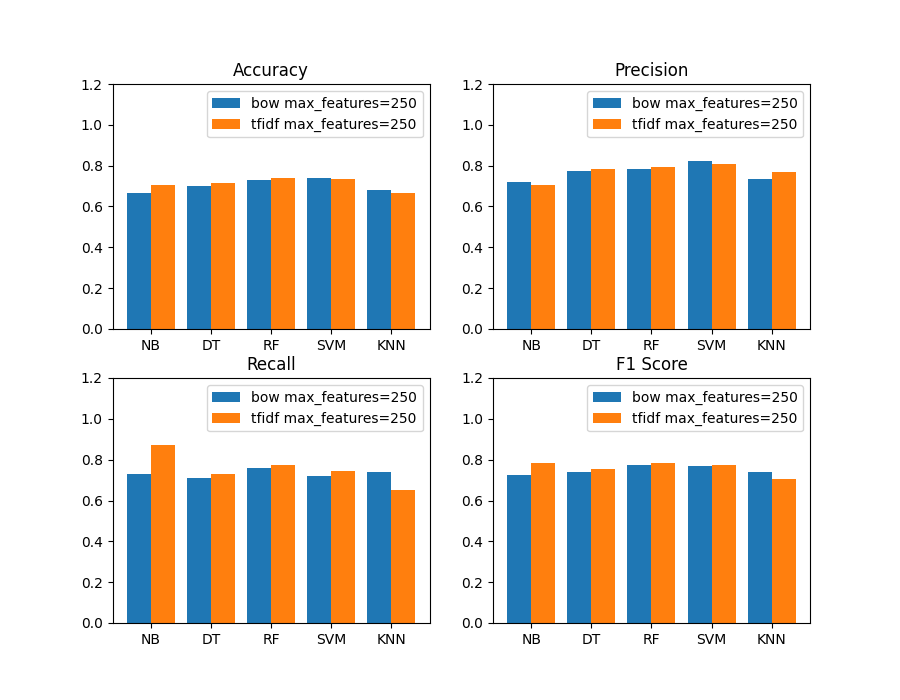
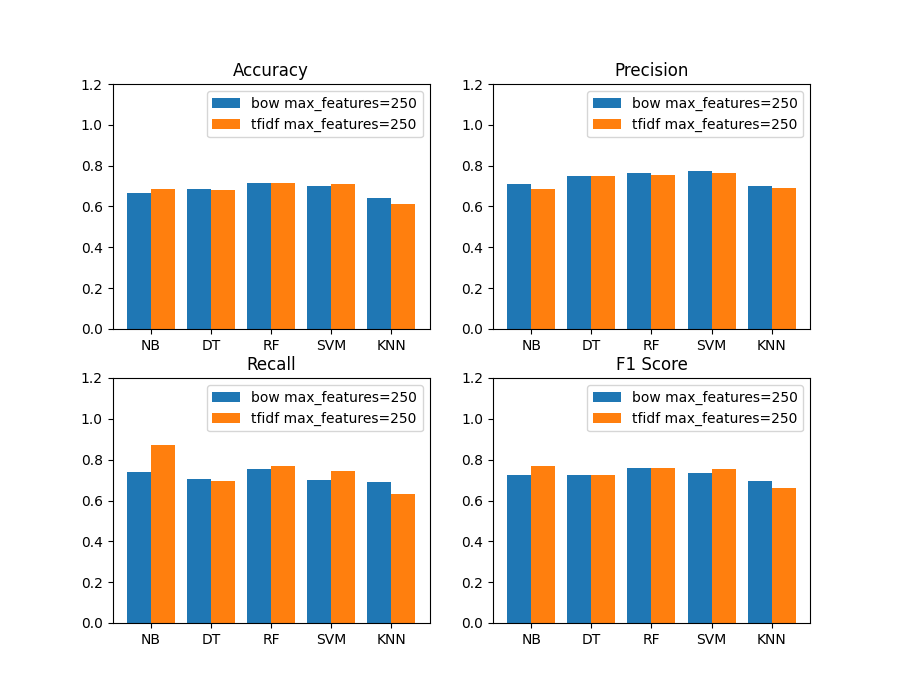
plotting prediction probabilities

diff --git a/code/ml/main.py b/code/ml/main.py
@@ -12,7 +12,7 @@ from sklearn.metrics import classification_report, accuracy_score, f1_score, pre
     mean_squared_error
 from ml.ml_models import execute_nb, execute_dtc, execute_rf, execute_svm, execute_knn
 from ml.plots import bar_plot_multiple_column, save_results_to_csv, parse_optuna_trials, Results, \
-    plot_optuna_metric_histogram
+    plot_optuna_metric_histogram, plot_proba_histogram
 from ml.preprocess_text import preprocess_text, create_tfidf, create_bow, save_df_to_csv
 from ml.hyperparamter_search import Objective
 
@@ -26,7 +26,7 @@ class Metrics:
         self.f1 = []
 
 
-def show_score(y_test, y_pred, metric_list, title="", avg='binary', model_name='', params='', dataset_name='', type='',
+def show_score(y_test, y_pred, proba, metric_list, title="", avg='binary', model_name='', params='', dataset_name='', type='',
                seconds=0):
     results = Results(model_name=model_name, params=params, dataset_name=dataset_name, type=type, average=avg,
                       seconds=seconds)
@@ -49,7 +49,8 @@ def show_score(y_test, y_pred, metric_list, title="", avg='binary', model_name='
         print("precission: ", results.prec)
         print("recall: ", results.recall)
         print("f1_score: ", results.f1)
-        save_results_to_csv(results)
+        plot_proba_histogram(proba, dataset=dataset_name, type=type, model=model_name)
+        # save_results_to_csv(results)
 
 
 def read_dataset(name):
@@ -83,46 +84,52 @@ def single_model_execution():
     models = ['NB', 'DT', 'RF', 'SVM', 'KNN']
     bow_score = Metrics()
     tfidf_score = Metrics()
-    y_pred, params, elapsed = execute_nb(X_train_tfidf, y_train_tfidf, X_test_tfidf)
-    show_score(y_test_tfidf, y_pred, title="NB tfidf", metric_list=tfidf_score, model_name='NB', params=params,
+
+    y_pred, params, elapsed, proba = execute_nb(X_train_tfidf, y_train_tfidf, X_test_tfidf)
+    show_score(y_test_tfidf, y_pred, proba, title="NB tfidf", metric_list=tfidf_score, model_name='NB', params=params,
                dataset_name=file_name, type='tfidf max_features=' + str(max_features), seconds=elapsed,
                avg=metrics_average)
-    y_pred, params, elapsed = execute_nb(X_train_bow, y_train_bow, X_test_bow)
-    show_score(y_test_bow, y_pred, title="NB bow", metric_list=bow_score, model_name='NB', params=params,
+    y_pred, params, elapsed, proba = execute_nb(X_train_bow, y_train_bow, X_test_bow)
+    show_score(y_test_bow, y_pred, proba, title="NB bow", metric_list=bow_score, model_name='NB', params=params,
                dataset_name=file_name, type='bow max_features=' + str(max_features), seconds=elapsed,
                avg=metrics_average)
-    y_pred, params, elapsed = execute_dtc(X_train_tfidf, y_train_tfidf, X_test_tfidf)
-    show_score(y_test_tfidf, y_pred, title="DT tfidf", metric_list=tfidf_score, model_name='DT', params=params,
+
+    y_pred, params, elapsed, proba = execute_dtc(X_train_tfidf, y_train_tfidf, X_test_tfidf)
+    show_score(y_test_tfidf, y_pred, proba, title="DT tfidf", metric_list=tfidf_score, model_name='DT', params=params,
                dataset_name=file_name, type='tfidf max_features=' + str(max_features), seconds=elapsed,
                avg=metrics_average)
-    y_pred, params, elapsed = execute_dtc(X_train_bow, y_train_bow, X_test_bow)
-    show_score(y_test_bow, y_pred, title="DT bow", metric_list=bow_score, model_name='DT', params=params,
+    y_pred, params, elapsed, proba = execute_dtc(X_train_bow, y_train_bow, X_test_bow)
+    show_score(y_test_bow, y_pred, proba, title="DT bow", metric_list=bow_score, model_name='DT', params=params,
                dataset_name=file_name, type='bow max_features=' + str(max_features), seconds=elapsed,
                avg=metrics_average)
-    y_pred, params, elapsed = execute_rf(X_train_tfidf, y_train_tfidf, X_test_tfidf)
-    show_score(y_test_tfidf, y_pred, title="RF tfidf", metric_list=tfidf_score, model_name='RF', params=params,
+
+    y_pred, params, elapsed, proba = execute_rf(X_train_tfidf, y_train_tfidf, X_test_tfidf)
+    show_score(y_test_tfidf, y_pred, proba, title="RF tfidf", metric_list=tfidf_score, model_name='RF', params=params,
                dataset_name=file_name, type='tfidf max_features=' + str(max_features), seconds=elapsed,
                avg=metrics_average)
-    y_pred, params, elapsed = execute_rf(X_train_bow, y_train_bow, X_test_bow)
-    show_score(y_test_bow, y_pred, title="RF bow", metric_list=bow_score, model_name='RF', params=params,
+    y_pred, params, elapsed, proba = execute_rf(X_train_bow, y_train_bow, X_test_bow)
+    show_score(y_test_bow, y_pred, proba, title="RF bow", metric_list=bow_score, model_name='RF', params=params,
                dataset_name=file_name, type='bow max_features=' + str(max_features), seconds=elapsed,
                avg=metrics_average)
-    y_pred, params, elapsed = execute_svm(X_train_tfidf, y_train_tfidf, X_test_tfidf)
-    show_score(y_test_tfidf, y_pred, title="SVM tfidf", metric_list=tfidf_score, model_name='SVM', params=params,
+
+    y_pred, params, elapsed, proba = execute_svm(X_train_tfidf, y_train_tfidf, X_test_tfidf)
+    show_score(y_test_tfidf, y_pred, proba, title="SVM tfidf", metric_list=tfidf_score, model_name='SVM', params=params,
                dataset_name=file_name, type='tfidf max_features=' + str(max_features), seconds=elapsed,
                avg=metrics_average)
-    y_pred, params, elapsed = execute_svm(X_train_bow, y_train_bow, X_test_bow)
-    show_score(y_test_bow, y_pred, title="SVM bow", metric_list=bow_score, model_name='SVM', params=params,
+    y_pred, params, elapsed, proba = execute_svm(X_train_bow, y_train_bow, X_test_bow)
+    show_score(y_test_bow, y_pred, proba, title="SVM bow", metric_list=bow_score, model_name='SVM', params=params,
                dataset_name=file_name, type='bow max_features=' + str(max_features), seconds=elapsed,
                avg=metrics_average)
-    y_pred, params, elapsed = execute_knn(X_train_tfidf, y_train_tfidf, X_test_tfidf)
-    show_score(y_test_tfidf, y_pred, title="KNN tfidf", metric_list=tfidf_score, model_name='KNN', params=params,
+
+    y_pred, params, elapsed, proba = execute_knn(X_train_tfidf, y_train_tfidf, X_test_tfidf)
+    show_score(y_test_tfidf, y_pred, proba, title="KNN tfidf", metric_list=tfidf_score, model_name='KNN', params=params,
                dataset_name=file_name, type='tfidf max_features=' + str(max_features), seconds=elapsed,
                avg=metrics_average)
-    y_pred, params, elapsed = execute_knn(X_train_bow, y_train_bow, X_test_bow)
-    show_score(y_test_bow, y_pred, title="KNN bow", metric_list=bow_score, model_name='KNN', params=params,
+    y_pred, params, elapsed, proba = execute_knn(X_train_bow, y_train_bow, X_test_bow)
+    show_score(y_test_bow, y_pred, proba, title="KNN bow", metric_list=bow_score, model_name='KNN', params=params,
                dataset_name=file_name, type='bow max_features=' + str(max_features), seconds=elapsed,
                avg=metrics_average)
+
     bar_plot_multiple_column(models, bow_score, tfidf_score, "bow max_features=" + str(max_features),
                              'tfidf max_features=' + str(max_features),
                              file_name + "_max_features=" + str(max_features) + "_average=" + metrics_average)
@@ -166,5 +173,5 @@ if __name__ == "__main__":
     tfidf = create_tfidf(df, max_features=max_features)
     bow = create_bow(df, max_features=max_features)
 
-    # single_model_execution()
-    hyperparameter_search(tfidf, df['label'], type='tfidf' + " max_features=" + str(max_features))
+    single_model_execution()
+    # hyperparameter_search(tfidf, df['label'], type='tfidf' + " max_features=" + str(max_features))

diff --git a/code/ml/ml_models.py b/code/ml/ml_models.py
@@ -1,5 +1,7 @@
 import json
 import time
+
+import numpy as np
 from sklearn.naive_bayes import MultinomialNB
 from sklearn.neighbors import KNeighborsClassifier
 from sklearn.tree import DecisionTreeClassifier
@@ -18,7 +20,9 @@ def execute_nb(X_train, y_train, X_test):
     nb.fit(X_train, y_train)
     y_pred = nb.predict(X_test)
     elapsed = time.perf_counter() - start
-    return y_pred, get_params_string(nb), elapsed
+    y_pred_proba = nb.predict_proba(X_test)
+    proba = np.amax(y_pred_proba, axis=1)
+    return y_pred, get_params_string(nb), elapsed, proba
 
 
 def execute_dtc(X_train, y_train, X_test):
@@ -27,7 +31,9 @@ def execute_dtc(X_train, y_train, X_test):
     dtc.fit(X_train, y_train)
     y_pred = dtc.predict(X_test)
     elapsed = time.perf_counter() - start
-    return y_pred, get_params_string(dtc), elapsed
+    y_pred_proba = dtc.predict_proba(X_test)
+    proba = np.amax(y_pred_proba, axis=1)
+    return y_pred, get_params_string(dtc), elapsed, proba
 
 
 def execute_rf(X_train, y_train, X_test):
@@ -36,16 +42,20 @@ def execute_rf(X_train, y_train, X_test):
     rf.fit(X_train, y_train)
     y_pred = rf.predict(X_test)
     elapsed = time.perf_counter() - start
-    return y_pred, get_params_string(rf), elapsed
+    y_pred_proba = rf.predict_proba(X_test)
+    proba = np.amax(y_pred_proba, axis=1)
+    return y_pred, get_params_string(rf), elapsed, proba
 
 
 def execute_svm(X_train, y_train, X_test):
-    cls = svm.SVC(kernel='linear')
+    cls = svm.SVC(kernel='linear', probability=True)
     start = time.perf_counter()
     cls.fit(X_train, y_train)
     y_pred = cls.predict(X_test)
     elapsed = time.perf_counter() - start
-    return y_pred, get_params_string(cls), elapsed
+    y_pred_proba = cls.predict_proba(X_test)
+    proba = np.amax(y_pred_proba, axis=1)
+    return y_pred, get_params_string(cls), elapsed, proba
 
 
 def execute_knn(X_train, y_train, X_test):
@@ -54,4 +64,6 @@ def execute_knn(X_train, y_train, X_test):
     knn.fit(X_train, y_train)
     y_pred = knn.predict(X_test)
     elapsed = time.perf_counter() - start
-    return y_pred, get_params_string(knn), elapsed
+    y_pred_proba = knn.predict_proba(X_test)
+    proba = np.amax(y_pred_proba, axis=1)
+    return y_pred, get_params_string(knn), elapsed, proba

diff --git a/code/ml/plots.py b/code/ml/plots.py
@@ -1,6 +1,6 @@
 import copy
 from datetime import datetime
-
+import seaborn as sns
 import numpy as np
 import matplotlib.pyplot as plt
 import csv
@@ -71,9 +71,23 @@ def bar_plot_multiple_column(models, type1, type2, type1desc, type2desc, file_na
     plt.title('F1 Score')
     plt.ylim([0, 1.2])
 
-    plt.savefig("../results/figures/" + file_name + ".png")
+    plt.savefig("../results/figures/single_tests/" + file_name + ".png")
     plt.show()
 
+def plot_proba_histogram(proba, dataset=None, type=None, model=None):
+    # plt.hist(proba, bins=10, range=[0.5, 1])
+    # plt.title(model)
+    # plt.ylabel("Count")
+    # plt.xlabel("Prediction probability")
+    # plt.savefig("../results/figures/proba/"+ dataset + "_"+type+"_"+model+".png")
+
+    sns.histplot(data=proba, bins=10, binrange=[0.5, 1], stat="percent")
+    plt.ylim(0, 110)
+    plt.title(model + " "+type)
+    plt.ylabel("Count")
+    plt.xlabel("Prediction probability")
+    plt.savefig("../results/figures/proba/" + dataset + "_" + type + "_" + model + ".png")
+    plt.clf()
 
 def plot_optuna_metric_histogram(study, dataset, type):
     metric_list = []
